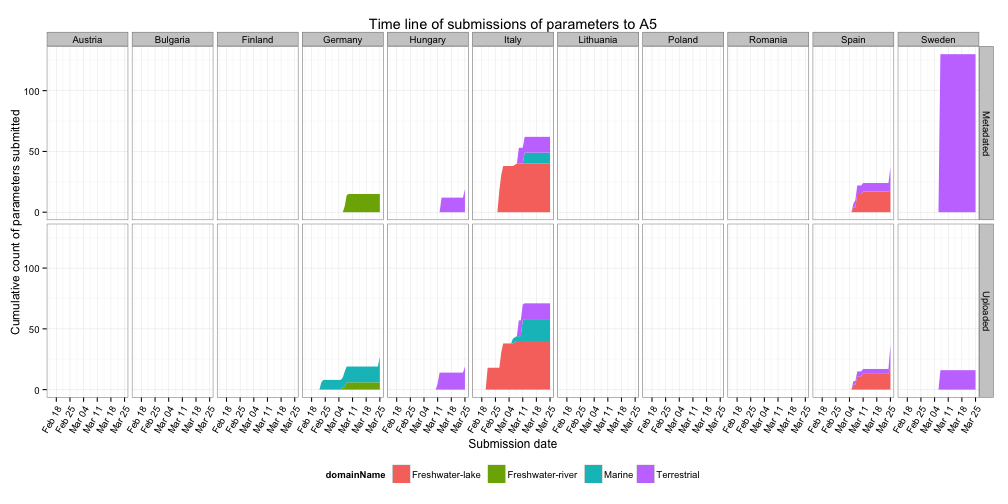
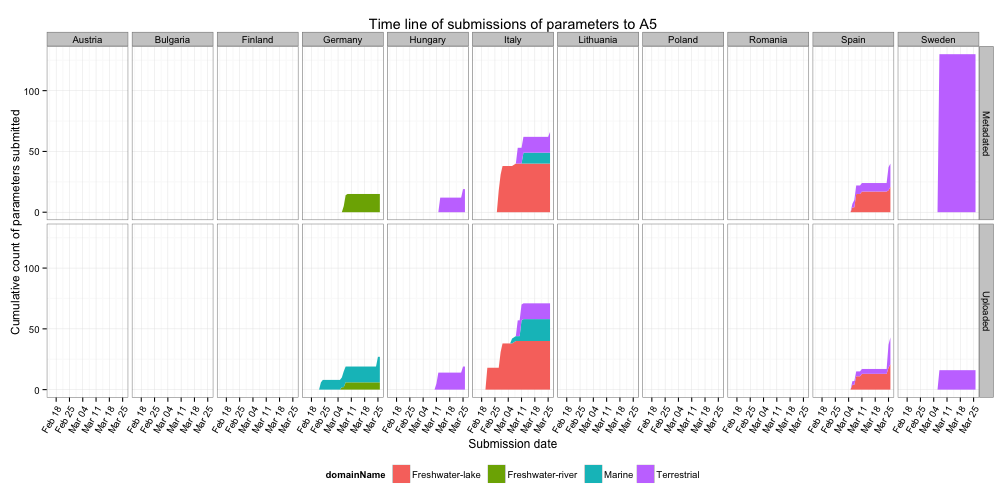
publishing deck

Changed region(s): [[0.0308, 0.7738, 0.9841, 0.8631], [0.4921, 0.625, 0.5228, 0.6548], [0.4921, 0.2976, 0.5228, 0.3274]]

diff --git a/index.html b/index.html
@@ -48,9 +48,9 @@
   </hgroup>
   <article>
     <ul>
-<li>Last updated <code>2013-03-25</code></li>
+<li>Last updated <code>2013-03-26</code></li>
 <li>Deadline for data submission: <code>2013-03-08</code></li>
-<li>Days to deadline: <code>-17</code></li>
+<li>Days to deadline: <code>-18</code></li>
 <li>Total number of sites sampled in 2012: <code>61</code>; sub-sites: <code>65</code></li>
 </ul>
 
@@ -58,13 +58,13 @@
 
 <!-- html table generated in R 2.15.3 by xtable 1.7-0 package -->
 
-<!-- Mon Mar 25 09:38:20 2013 -->
+<!-- Tue Mar 26 15:07:12 2013 -->
 
 <TABLE border=1>
 <TR> <TH>  </TH> <TH> No. uploaded </TH> <TH> No. metadated </TH> <TH> Total no. </TH> <TH> Upload ratio </TH> <TH> Metadata ratio </TH>  </TR>
-  <TR> <TD align="right"> Year2012 </TD> <TD align="right"> 152 </TD> <TD align="right"> 209 </TD> <TD align="right"> 2025 </TD> <TD align="right"> 0.08 </TD> <TD align="right"> 0.10 </TD> </TR>
-  <TR> <TD align="right"> Year2011 </TD> <TD align="right">  18 </TD> <TD align="right">  54 </TD> <TD align="right"> 265 </TD> <TD align="right"> 0.07 </TD> <TD align="right"> 0.20 </TD> </TR>
-  <TR> <TD align="right"> Sum </TD> <TD align="right"> 170 </TD> <TD align="right"> 263 </TD> <TD align="right"> 2290 </TD> <TD align="right"> 0.07 </TD> <TD align="right"> 0.11 </TD> </TR>
+  <TR> <TD align="right"> Year2012 </TD> <TD align="right"> 156 </TD> <TD align="right"> 214 </TD> <TD align="right"> 2026 </TD> <TD align="right"> 0.08 </TD> <TD align="right"> 0.11 </TD> </TR>
+  <TR> <TD align="right"> Year2011 </TD> <TD align="right">  20 </TD> <TD align="right">  56 </TD> <TD align="right"> 265 </TD> <TD align="right"> 0.08 </TD> <TD align="right"> 0.21 </TD> </TR>
+  <TR> <TD align="right"> Sum </TD> <TD align="right"> 176 </TD> <TD align="right"> 270 </TD> <TD align="right"> 2291 </TD> <TD align="right"> 0.08 </TD> <TD align="right"> 0.12 </TD> </TR>
    </TABLE>
 
   </article>

diff --git a/index.md b/index.md
@@ -26,19 +26,19 @@ github:
 
 ## State of uploading process
 
-* Last updated ``2013-03-25``
+* Last updated ``2013-03-26``
 * Deadline for data submission: `2013-03-08`
-* Days to deadline: ``-17``
+* Days to deadline: ``-18``
 * Total number of sites sampled in 2012: ``61``; sub-sites: ``65``
 
 Parameters uploaded and metadated:
 <!-- html table generated in R 2.15.3 by xtable 1.7-0 package -->
-<!-- Mon Mar 25 09:38:20 2013 -->
+<!-- Tue Mar 26 15:07:12 2013 -->
 <TABLE border=1>
 <TR> <TH>  </TH> <TH> No. uploaded </TH> <TH> No. metadated </TH> <TH> Total no. </TH> <TH> Upload ratio </TH> <TH> Metadata ratio </TH>  </TR>
-  <TR> <TD align="right"> Year2012 </TD> <TD align="right"> 152 </TD> <TD align="right"> 209 </TD> <TD align="right"> 2025 </TD> <TD align="right"> 0.08 </TD> <TD align="right"> 0.10 </TD> </TR>
-  <TR> <TD align="right"> Year2011 </TD> <TD align="right">  18 </TD> <TD align="right">  54 </TD> <TD align="right"> 265 </TD> <TD align="right"> 0.07 </TD> <TD align="right"> 0.20 </TD> </TR>
-  <TR> <TD align="right"> Sum </TD> <TD align="right"> 170 </TD> <TD align="right"> 263 </TD> <TD align="right"> 2290 </TD> <TD align="right"> 0.07 </TD> <TD align="right"> 0.11 </TD> </TR>
+  <TR> <TD align="right"> Year2012 </TD> <TD align="right"> 156 </TD> <TD align="right"> 214 </TD> <TD align="right"> 2026 </TD> <TD align="right"> 0.08 </TD> <TD align="right"> 0.11 </TD> </TR>
+  <TR> <TD align="right"> Year2011 </TD> <TD align="right">  20 </TD> <TD align="right">  56 </TD> <TD align="right"> 265 </TD> <TD align="right"> 0.08 </TD> <TD align="right"> 0.21 </TD> </TR>
+  <TR> <TD align="right"> Sum </TD> <TD align="right"> 176 </TD> <TD align="right"> 270 </TD> <TD align="right"> 2291 </TD> <TD align="right"> 0.08 </TD> <TD align="right"> 0.12 </TD> </TR>
    </TABLE>
 
 
